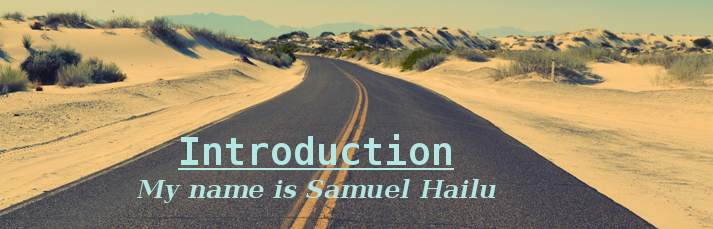
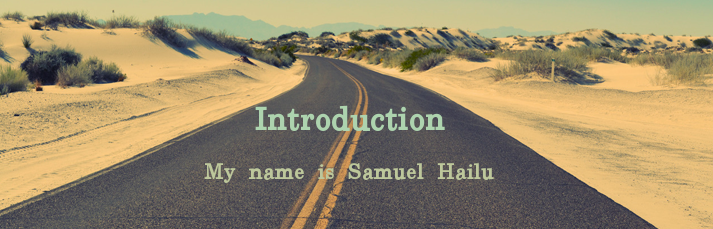
new intro image abcde

Changed region(s): [[0.1851, 0.4585, 0.7097, 0.8865]]

diff --git a/index.html b/index.html
@@ -1,12 +1,17 @@
 
 <html>
 <head><style>
-div
-{text-align:;
-margin-right:50;
+
+body
+{margin-right:50;
 margin-left:50; }
 
 
+.centered {
+  margin-left: auto;
+  margin-right: auto;
+  text-align: center;
+}
 </style>
 <title>Introduction </title>
 </head>
@@ -15,14 +20,15 @@ margin-left:50; }
 
 
 
-<div> <img src="intro4.png" height="300px" width="1250px">
+<div>
+<div class="centered" ><img src="intro4.png" height="300px" width="1000px"></div>
 <p>   I am <strong>Eritrean</strong>. <a href="https://de.wikipedia.org/wiki/Eritrea"> Eritrea</a> is located in the horn of <a href="https://www.google.ch/search?client=ubuntu&channel=fs&q=horon+africa&ie=utf-8&oe=utf-8&gfe_rd=cr&ei=TWrdVsbsJqjC8gf_iaDgDw#channel=fs&q=horn+africa">Africa</a>.
 I was born in a town called <a href="https://de.wikipedia.org/wiki/Dekemhare"> Dekemhare</a>. A town which was built during the time of Italian colonization.	   
 I started in St.Jacob Catholic Elementary school. When I finished my fifth grade we had to move
 to <a href="https://en.wikipedia.org/wiki/Asmara"> Asamara </a> which is the capital city of Eritrea. The reason why we moved there was to find a better chance 
 of education. Things went well as we planned,I was able to find a better classes and a better life.
 
- <img src="africa.jpg" height=300px width=1250px>
+ <div class="centered" ><img src="africa.jpg"height=300px></div>
 <p> When I finished my High-school it was 
 an obligation for to complete my National-service which I totally disagree. But there was no way  that I could refuse back then.
 So I joined the military camp which is located at the northern part of Eritrea. a place known as Sawa.after almost one year, the military treatment,the harsh type of climate,the  shortage
@@ -32,10 +38,9 @@ and then I came to Switzerland as an asylum seeker. I could say I found a better
 was not for the military. But found hope here, a hope that I could achieve my studies. After I came to Switzerland I start to learn the language,and started to work for the Company called  <a href="http://www.ungleich.ch/" title="Click here to discover more about Linux">ungleich GmbH</a>.
 </p>
 <p><h5>Here is an overview of my language skills: </h5></p>
-div
 
 <p>
-<table border="5">
+<table border="5" class="centered">
 	<tr>
 		<th>Language</th>
  		<th>Level(A-D)</th>
